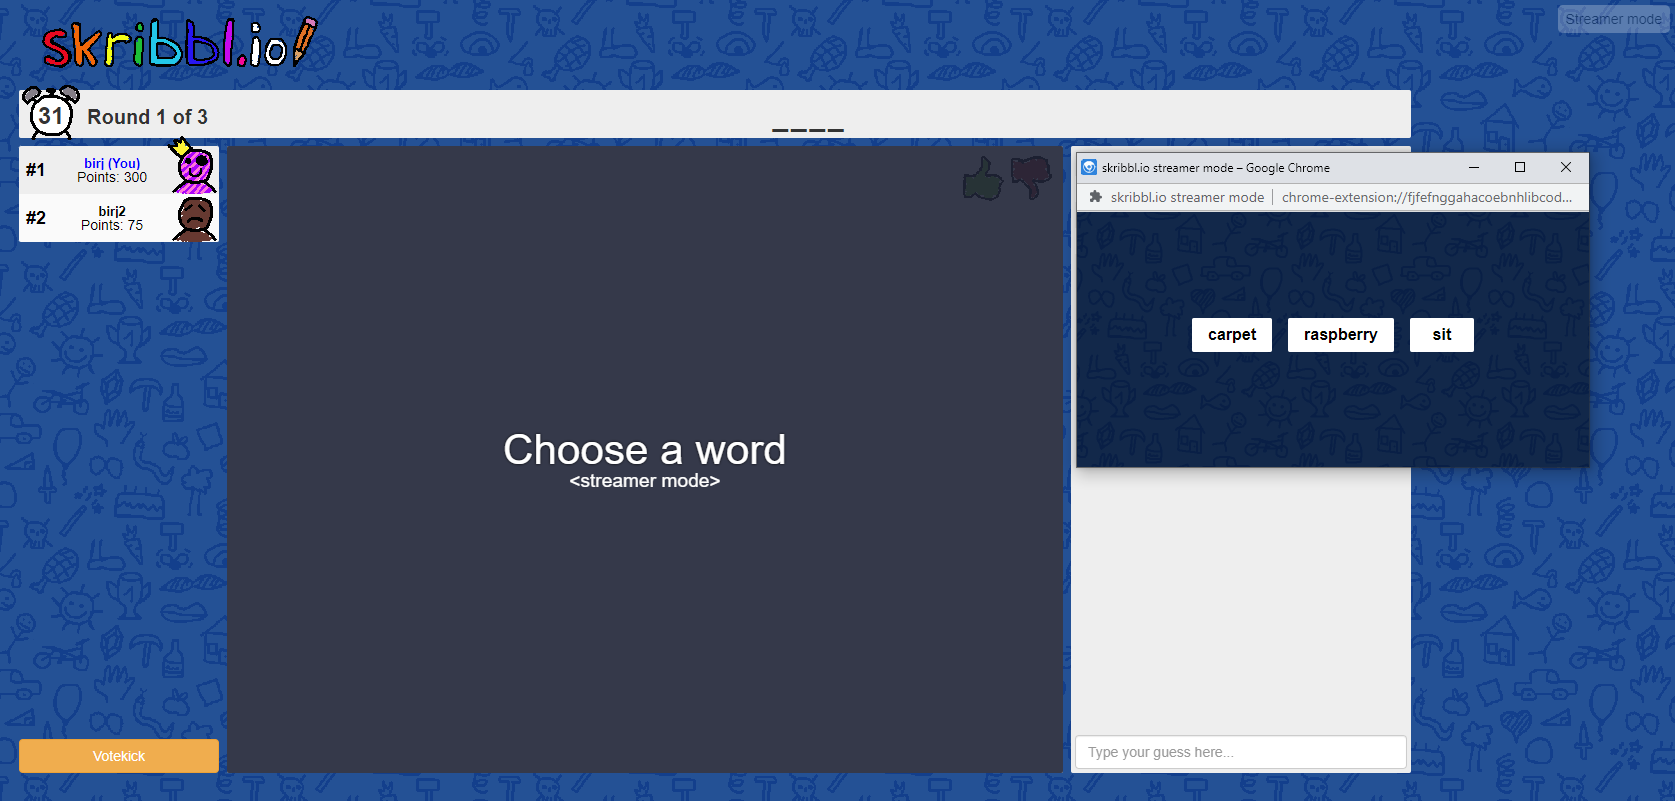
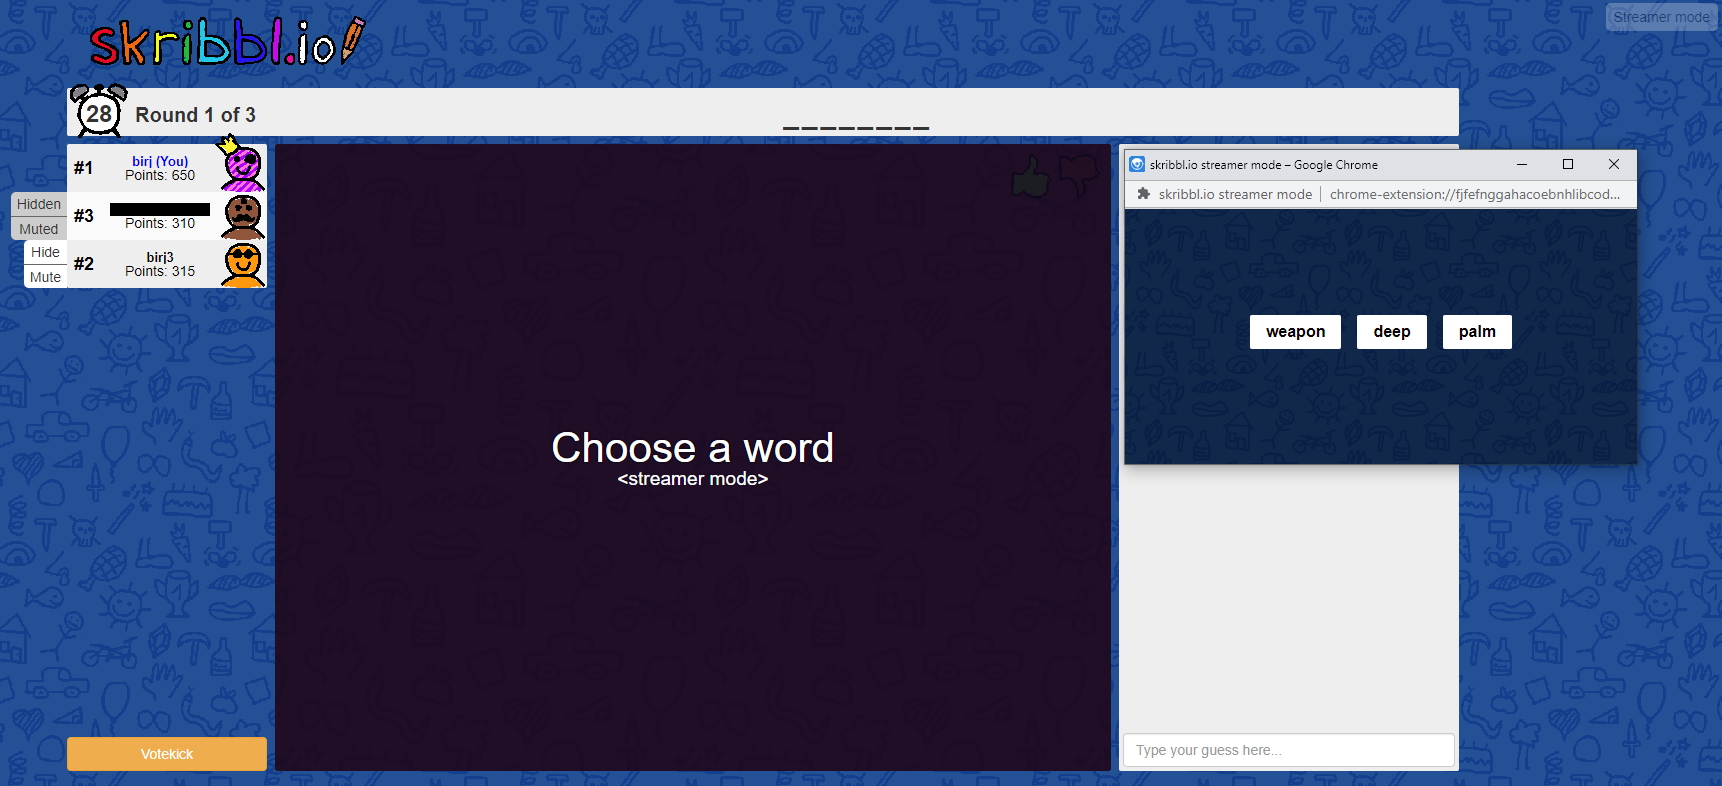
docs: update docs with new moderation features

diff --git a/README.md b/README.md
@@ -1,7 +1,15 @@
 # skribbl.io-streamer-mode
 
-Super quick browser extension to add streamer mode to skribbl.io.  
-Works by hiding the word selection from the skribbl.io site, moving it into a separate popup window that you can hide from your stream.
+Super quick browser extension to add streamer mode to skribbl.io.
+
+### Features:
+
+<dl>
+  <dt>Anti-spoiling</dt>
+  <dd>Hide anything that would give away what you're currently drawing (word list when it's time to pick word, current word at top while drawing) so it doesn't show up on stream. It will instead be displayed in a separate popup.</dd>
+  <dt>Moderation</dt>
+  <dd>Hide chat messages and drawings of any player. Helps avoid trolls drawing edgy stuff or spamming chat.</dd>
+</dl>
 
 ## Installation
 
